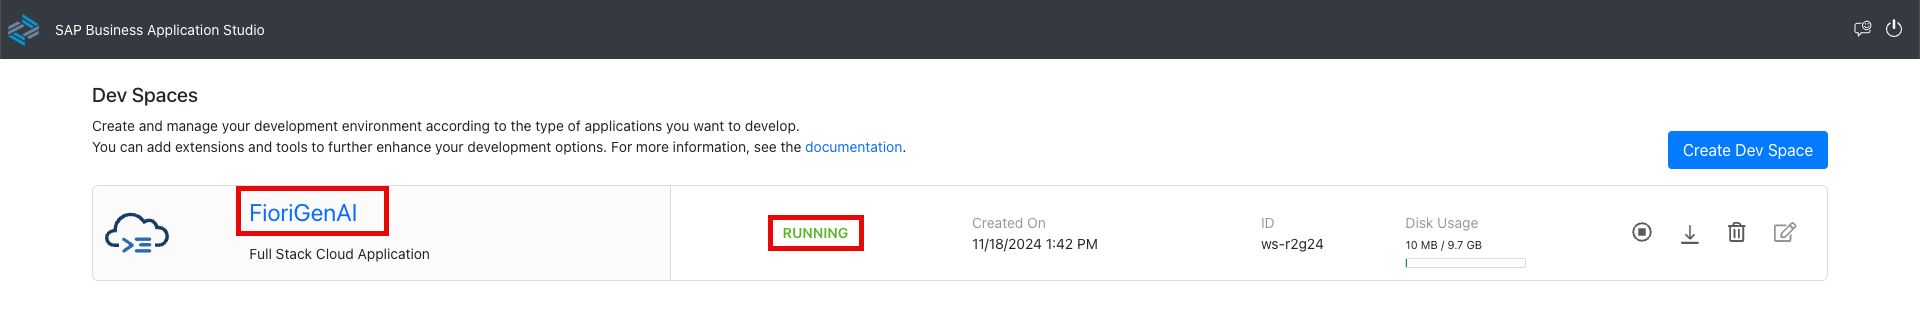
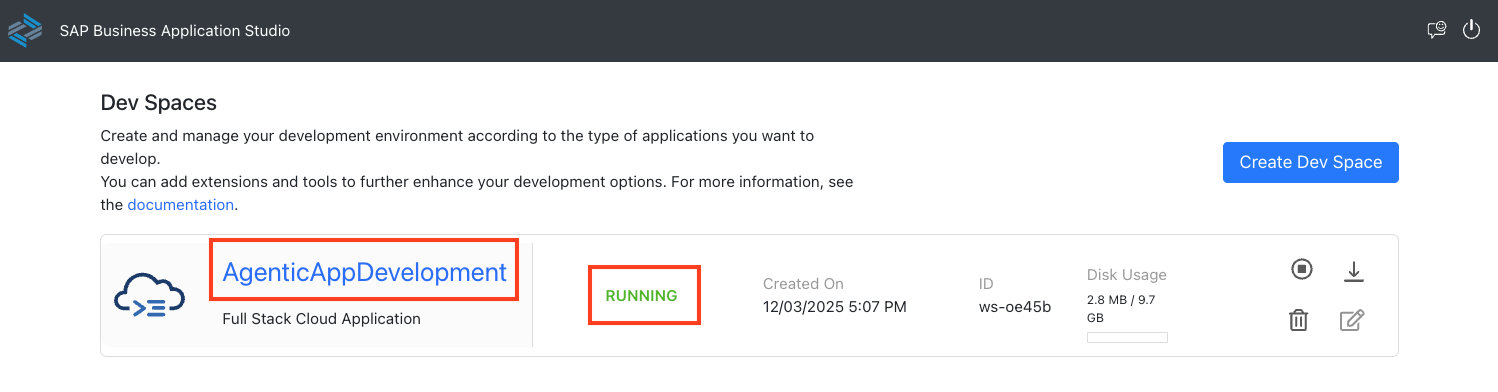
rename devspace to AgenticAppDevelopment

diff --git a/exercises/ex0/README.md b/exercises/ex0/README.md
@@ -17,7 +17,7 @@ On the SAP Build landing page, click button **Switch Product** in the top right 
 
 ![Create Dev Space](images/ex0img1.png)
 
-Enter a name for your development space and select application profile Full Stack Cloud Application.
+Enter a name `AgenticAppDevelopment` for your development space and select application profile Full Stack Cloud Application.
 
 ![image](images/ex0img2.png)
 
